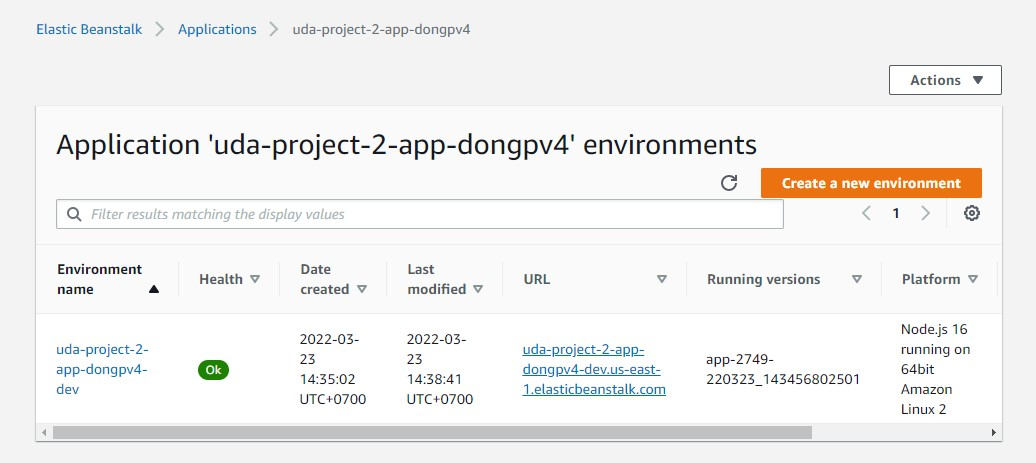
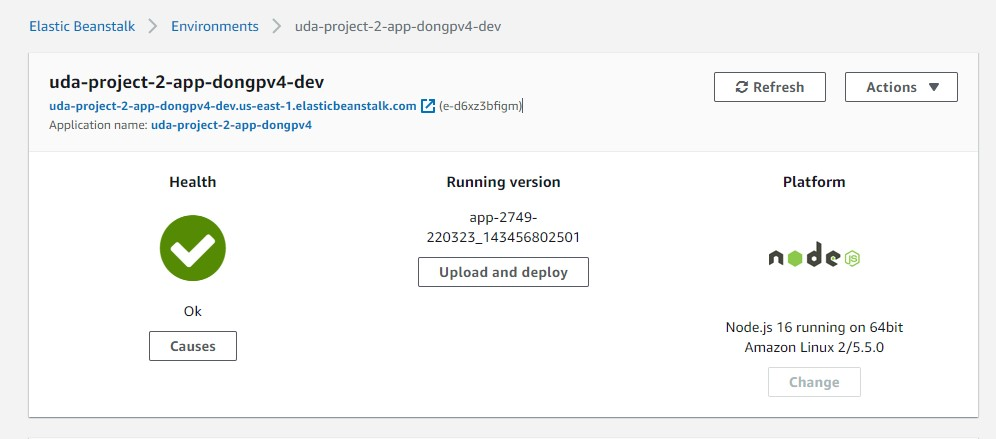
update README and screenshot

diff --git a/README.md b/README.md
@@ -1,1 +1,2 @@
-# Link 
+# Link Elastic Beanstalk
+http://uda-project-2-app-dongpv4-dev.us-east-1.elasticbeanstalk.com/
